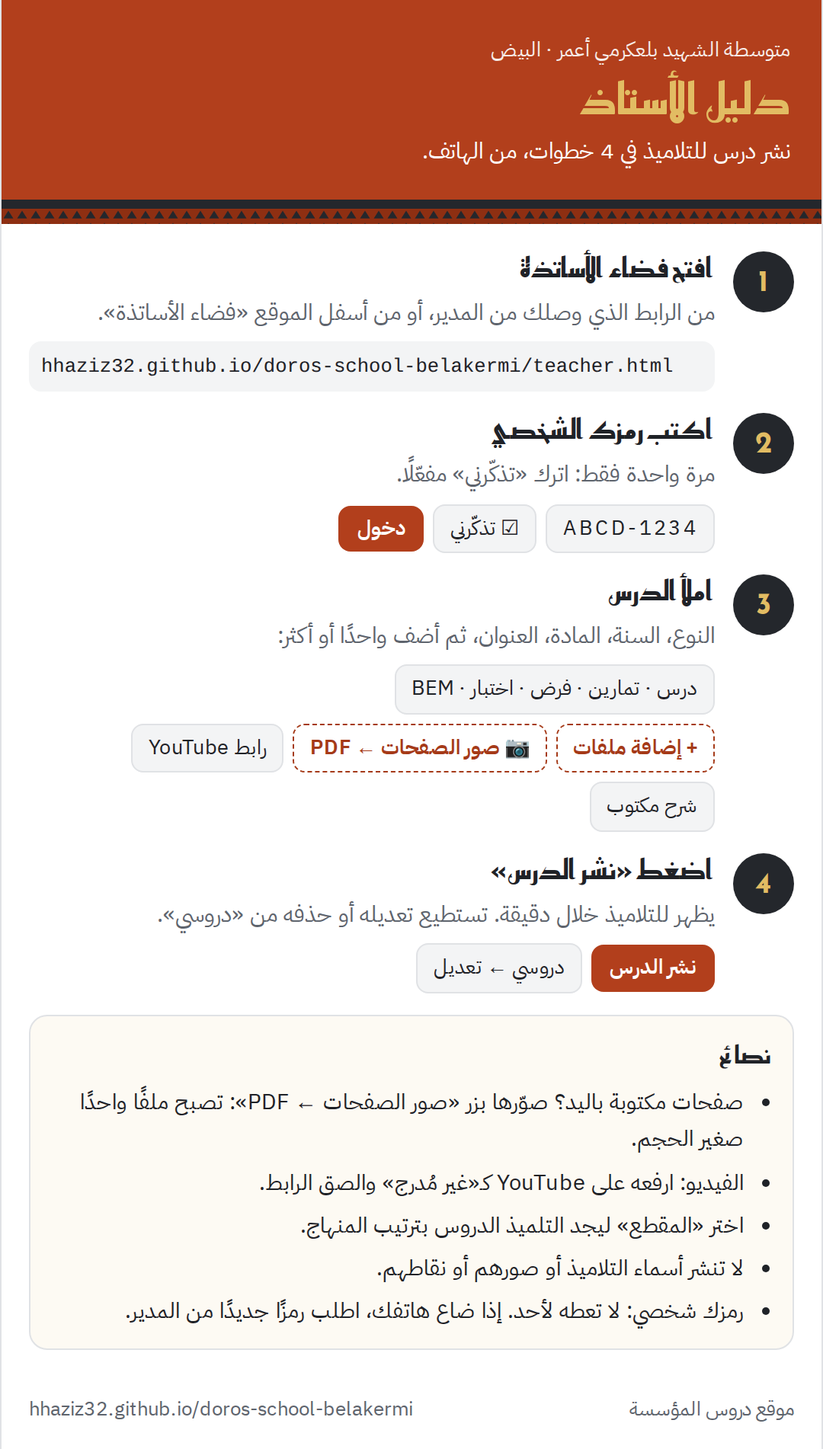
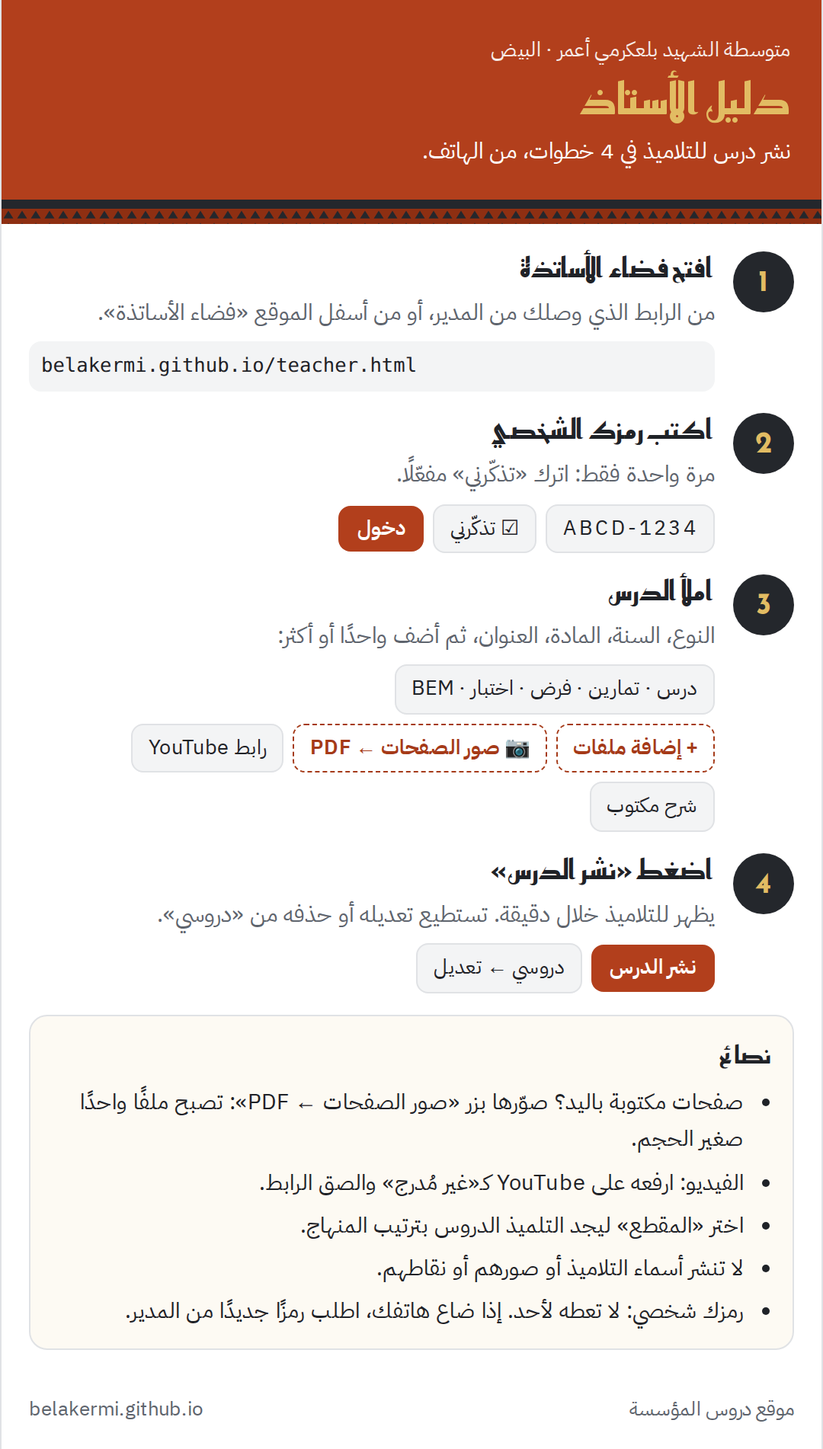
Lesson views for teachers, visitor counts for the admin (server v5); new address
- server v5: views and daily visits ride on normal reads (seen/visit/vn params),
  buffered in 20 cache shards, flushed at most every 10 min to a «views» column
  and a «visits» property; mine returns views, teachers returns visits
- phones queue views once per lesson per day; teachers' phones not counted;
  acknowledged only by a fresh server reply (nonce), so offline copies never drop them
- teacher «دروسي»: total, most viewed, per-lesson count, sort by views;
  admin: totals per teacher and visitors today / 7 / 30 days
- worker ignores counting params when matching saved replies
- links, share image and teacher guide image now use belakermi.github.io

Claude-Session: https://claude.ai/code/session_01DzrSKPb2SfvdNzBRMPXsky

Changed region(s): [[0.0611, 0.2482, 0.7333, 0.2792], [0.0306, 0.9616, 0.4889, 0.9926], [0.7639, 0.2482, 0.7944, 0.2792]]

diff --git a/teacher.html b/teacher.html
@@ -60,6 +60,20 @@
   .meter{height:8px;border-radius:99px;background:var(--line);overflow:hidden;margin-top:6px}
   .meter i{display:block;height:100%;border-radius:99px}
   .search input{padding-right:14px}
+  .vsum{display:flex;flex-direction:column;gap:8px}
+  .vbig{display:flex;align-items:baseline;gap:10px}
+  .vbig b{font-family:var(--display);font-size:2rem;color:var(--brick-ink);line-height:1}
+  .vtop{font-size:.92rem}
+  .vtop a{color:var(--brick-ink);unicode-bidi:plaintext}
+  .vby summary{cursor:pointer;font-size:.9rem;color:var(--muted)}
+  .vby table{width:100%;border-collapse:collapse;margin-top:6px;font-size:.88rem}
+  .vby td{padding:6px 4px;border-bottom:1px solid var(--line)}
+  .vby td:not(:first-child){white-space:nowrap;color:var(--muted);text-align:left}
+  .vstats{display:grid;grid-template-columns:repeat(3,minmax(0,1fr));gap:8px}
+  .vstats div{border:1px solid var(--line);border-radius:10px;padding:8px 6px;text-align:center;background:var(--ground)}
+  .vstats b{display:block;font-family:var(--display);font-size:1.5rem;line-height:1.2}
+  .vstats span{font-size:.8rem;color:var(--muted)}
+  .vw{white-space:nowrap}
 </style>
 </head>
 <body>
@@ -101,6 +115,7 @@ function blankForm(){var s=(S.me&&S.me.subjects||"").split(",")[0]||"",last=ls(l
  return f}
 function v3(){return S.me&&S.me.v>=3}
 function v4(){return S.me&&S.me.v>=4}
+var LATEST=5;
 function isBem(t){return t==="bem"||t==="bemc"}
 function msg(t,ok){S.msg={t:t,ok:!!ok}}
 var HEIC_TIP="صور HEIC (من بعض الهواتف) لا يقرؤها المتصفح: في إعدادات الكاميرا اختر «JPG» (في آيفون: «الأكثر توافقًا»)، أو التقط لقطة شاشة للصورة وأرسلها.";
@@ -126,7 +141,8 @@ function render(){
  if(!S.me){renderLogin();return}
  if(S.tab==="new"&&!S.done)ensureForm();
  var o='<div class="who"><div>مرحبًا، <b>'+esc(S.me.name)+'</b>'+(S.me.role==="admin"&&S.me.name.indexOf("مدير")<0?'<span class="role">المدير</span>':'')+'</div><button class="btn quiet sm" data-a="logout">خروج</button></div>';
- if(S.me.role==="admin"&&!v4())o+='<div class="upd">الخادم على الإصدار '+(S.me.v||1)+'. حدّث كود الخادم إلى <b>الإصدار 4</b> لتفعيل: '+(v3()?'':'نوع المحتوى، المقطع، مواضيع BEM، الإعلانات، ')+'منع تكرار النشر عند انقطاع الإنترنت، تحمّل الزحام، النسخة الاحتياطية، وزر «تحديث الموقع». <a href="setup.html">طريقة التحديث</a></div>';
+ var sv=S.me.v||1;
+ if(S.me.role==="admin"&&sv<LATEST)o+='<div class="upd">الخادم على الإصدار '+sv+'. حدّث كود الخادم إلى <b>الإصدار '+LATEST+'</b> لتفعيل: '+(sv<3?'نوع المحتوى، المقطع، مواضيع BEM، الإعلانات، ':'')+(sv<4?'منع تكرار النشر عند انقطاع الإنترنت، تحمّل الزحام، النسخة الاحتياطية، زر «تحديث الموقع»، ':'')+'عدد مشاهدات الدروس وعدد زوار الموقع. <a href="setup.html">طريقة التحديث</a></div>';
  o+='<nav class="tabs" role="tablist">'+tab("new",S.form&&S.form.id?"تعديل درس":"درس جديد")+tab("mine",S.me.role==="admin"?"كل الدروس":"دروسي")+(S.me.role==="admin"?tab("news","الإعلانات")+tab("team","الأساتذة"):"")+'</nav>';
  if(S.msg)o+='<div class="'+(S.msg.ok?"ok-msg":"msg")+'" role="status">'+esc(S.msg.t)+'</div>';
  o+='<section id="pane"></section>';
@@ -204,7 +220,7 @@ function loadMine(){if(S._loading)return;S._loading=true;S.mineErr=null;var g=G.
   function(e){if(g!==G.mine)return;S._loading=false;S.mineErr=D.errText(e);if(S.tab==="mine")renderMine()})}
 /* المدير: تحميل الأساتذة والإعلانات مسبقًا بعد الدخول، لتفتح التبويبات فورًا */
 function loadTeachers(){if(S._tload)return;S._tload=true;S.tErr=null;var g=G.team;
- D.call({action:"teachers",code:S.code}).then(function(j){if(g!==G.team)return;S._tload=false;S.teachers=j.teachers;S.storage=j.storage||null;if(S.tab==="team")renderTeam()},
+ D.call({action:"teachers",code:S.code}).then(function(j){if(g!==G.team)return;S._tload=false;S.teachers=j.teachers;S.storage=j.storage||null;S.visits=j.visits||null;if(S.tab==="team")renderTeam()},
   function(e){if(g!==G.team)return;S._tload=false;S.tErr=D.errText(e);if(S.tab==="team")renderTeam()})}
 function loadNews(){if(NW.loading||!v3())return;NW.loading=true;NW.err=null;var g=G.news;
  D.call({action:"news",code:S.code}).then(function(j){if(g!==G.news)return;NW.loading=false;NW.list=j.news;if(S.tab==="news")renderNewsAdmin()},
@@ -296,18 +312,32 @@ function publish(){if(S.busy)return;var f=readForm();
 function renderMine(){var el=$("pane");
  if(!S.mine){if(S.mineErr){el.innerHTML=failed(S.mineErr,"mineRetry");return}el.innerHTML=waiting("جاري تحميل الدروس…");loadMine();return}
  if(!S.mine.length){el.innerHTML='<div class="empty">لم تنشر أي درس بعد. ابدأ من «درس جديد».</div>';return}
- el.innerHTML=(S.mine.length>12?'<div class="search"><input id="mq" type="search" placeholder="ابحث في '+S.mine.length+' درسًا (العنوان، المقطع'+(S.me.role==="admin"?'، الأستاذ':'')+')…" aria-label="ابحث في الدروس" autocomplete="off" value="'+esc(S.mineQ)+'"></div>':'')+'<div id="mlist" style="display:flex;flex-direction:column;gap:12px"></div>';
+ var hasV=S.mine.some(function(l){return typeof l.views==="number"});
+ el.innerHTML=(hasV?viewSummary():'')+(S.mine.length>12?'<div class="search"><input id="mq" type="search" placeholder="ابحث في '+S.mine.length+' درسًا (العنوان، المقطع'+(S.me.role==="admin"?'، الأستاذ':'')+')…" aria-label="ابحث في الدروس" autocomplete="off" value="'+esc(S.mineQ)+'"></div>':'')+(hasV?'<div class="chips" role="group" aria-label="الترتيب"><button class="chip" data-a="msort" data-k="new" aria-pressed="'+(S.mineSort!=="views")+'">الأحدث</button><button class="chip" data-a="msort" data-k="views" aria-pressed="'+(S.mineSort==="views")+'">الأكثر مشاهدة</button></div>':'')+'<div id="mlist" style="display:flex;flex-direction:column;gap:12px"></div>';
  var q=$("mq");if(q)q.oninput=function(){S.mineQ=q.value;S.mineN=60;drawMine()};drawMine()}
 function drawMine(){var el=$("mlist");if(!el)return;var q=D.fold(S.mineQ).trim();
  var L=S.mine.filter(function(l){return!q||D.fold(l.title+" "+(l.unit||"")+" "+(l.teacher||"")).indexOf(q)>=0});
+ if(S.mineSort==="views")L=L.slice().sort(function(a,b){return(b.views||0)-(a.views||0)||b.ts-a.ts});
  if(!L.length){el.innerHTML='<div class="empty">لا توجد نتائج.</div>';return}
  el.innerHTML='<div class="card">'+L.slice(0,S.mineN).map(function(l){var s=D.subj(l.subject);
   var bits=[];if(l.files.length)bits.push(l.files.length===1?"ملف":l.files.length===2?"ملفان":l.files.length+" ملفات");if(l.videos.length)bits.push(l.videos.length===1?"فيديو":l.videos.length+" فيديو");if(l.text)bits.push("شرح");
   var tp=D.typeOf(l),yr=D.YEARS[l.year-1];
-  return'<div class="mrow"><h4 dir="auto">'+esc(l.title)+(tp!=="lesson"?' <span class="pill t-'+tp+'">'+esc(D.typeName(tp))+'</span>':'')+'</h4><div class="meta"><span>'+esc(yr?yr.name:"")+' · '+esc(s?s.n:"")+(l.unit?' · '+esc(l.unit):'')+'</span><span>·</span><span>'+D.fmt(l.date)+'</span>'+(S.me.role==="admin"?'<span>·</span><span>'+esc(l.teacher)+'</span>':'')+'<span>·</span><span>'+bits.join("، ")+'</span></div>'
+  return'<div class="mrow"><h4 dir="auto">'+esc(l.title)+(tp!=="lesson"?' <span class="pill t-'+tp+'">'+esc(D.typeName(tp))+'</span>':'')+'</h4><div class="meta"><span>'+esc(yr?yr.name:"")+' · '+esc(s?s.n:"")+(l.unit?' · '+esc(l.unit):'')+'</span><span>·</span><span>'+D.fmt(l.date)+'</span>'+(S.me.role==="admin"?'<span>·</span><span>'+esc(l.teacher)+'</span>':'')+'<span>·</span><span>'+bits.join("، ")+'</span>'+(typeof l.views==="number"?'<span>·</span><span class="vw">👁 '+l.views+' '+viewWord(l.views)+'</span>':'')+'</div>'
    +'<div style="display:flex;gap:8px;flex-wrap:wrap"><a class="btn ghost sm" href="lesson.html?id='+encodeURIComponent(l.id)+'">عرض</a><button class="btn quiet sm" data-a="edit" data-id="'+esc(l.id)+'">تعديل</button>'
    +(S.confirm===l.id?'<button class="btn danger sm" data-a="delYes" data-id="'+esc(l.id)+'">تأكيد الحذف</button><button class="btn quiet sm" data-a="delNo">إلغاء</button>':'<button class="btn quiet sm" data-a="del" data-id="'+esc(l.id)+'">حذف</button>')+'</div></div>'}).join("")+'</div>'
   +(L.length>S.mineN?'<button class="btn ghost" data-a="mineMore" style="align-self:center">عرض المزيد ('+(L.length-S.mineN)+')</button>':'')}
+
+/* ---- عدد المشاهدات (خادم الإصدار 5) ---- */
+function viewWord(n){return n===1?"مشاهدة":n===2?"مشاهدتان":n>=3&&n<=10?"مشاهدات":"مشاهدة"}
+function viewSummary(){var tot=0,top=null,by={};
+ S.mine.forEach(function(l){var n=l.views||0;tot+=n;if(n&&(!top||n>top.views))top=l;
+  if(S.me.role==="admin"){var k=l.teacher||"—";by[k]=by[k]||{n:0,c:0};by[k].n+=n;by[k].c++}});
+ var o='<div class="card vsum"><div class="vbig"><b>'+tot+'</b><span>'+(S.me.role==="admin"?'مشاهدة لكل دروس الموقع':'مشاهدة لدروسك')+'</span></div>';
+ if(top)o+='<div class="vtop">الأكثر مشاهدة: <a href="lesson.html?id='+encodeURIComponent(top.id)+'" dir="auto">'+esc(top.title)+'</a> · 👁 '+top.views+'</div>';
+ else o+='<div class="vtop">لا مشاهدات بعد. شارك رابط درسك مع تلاميذك من صفحة الدرس (زر واتساب).</div>';
+ if(S.me.role==="admin"){var rows=Object.keys(by).map(function(k){return{t:k,n:by[k].n,c:by[k].c}}).sort(function(a,b){return b.n-a.n||b.c-a.c});
+  if(rows.length>1)o+='<details class="vby"><summary>حسب الأستاذ ('+rows.length+')</summary><table>'+rows.map(function(r){return'<tr><td>'+esc(r.t)+'</td><td>'+r.c+' درس</td><td>👁 '+r.n+'</td></tr>'}).join("")+'</table></details>'}
+ return o+'<small class="hint" style="color:var(--muted);font-size:.8rem">تُحسب المشاهدة مرة واحدة لكل هاتف تلميذ في اليوم، ولا تُحسب هواتف الأساتذة. الأرقام تتحدث كل بضع دقائق.</small></div>'}
 
 /* ---- لوحة الإعلانات (المدير) ---- */
 var NW={list:null,edit:null,confirm:null,busy:false};
@@ -339,6 +369,8 @@ function tools(){
  if(st&&st.limit>0){var p=Math.min(100,Math.round(st.used/st.limit*100));
   o+='<div><div style="display:flex;justify-content:space-between;gap:8px;flex-wrap:wrap;font-size:.9rem"><span>مساحة Google Drive</span><span>'+D.size(st.used)+' من '+D.size(st.limit)+' · <bdi>'+p+'%</bdi></span></div><div class="meter"><i style="width:'+Math.max(p,2)+'%;background:'+(p>=90?"var(--danger)":p>=75?"var(--gold)":"var(--ok)")+'"></i></div>'
    +(p>=80?'<p class="hint" style="margin:6px 0 0;color:var(--danger);font-size:.85rem">المساحة تقترب من الامتلاء: شغّل الدالة cleanup من محرر الخادم، وأفرغ سلة Drive، واطلب من الأساتذة وضع الفيديوهات على YouTube.</p>':'')+'</div>'}
+ if(S.visits){var vz=S.visits;o+='<div><div style="font-size:.9rem;margin-bottom:6px">زوار الموقع</div><div class="vstats"><div><b>'+vz.today+'</b><span>اليوم</span></div><div><b>'+vz.d7+'</b><span>آخر 7 أيام</span></div><div><b>'+vz.d30+'</b><span>آخر 30 يومًا</span></div></div><p class="hint" style="margin:6px 0 0;color:var(--muted);font-size:.8rem">الزائر = هاتف تلميذ فتح الموقع، يُحسب مرة واحدة في اليوم. المجموع منذ البداية: '+vz.total+'.</p></div>'}
+ else if((S.me.v||1)<5)o+='<p class="hint" style="margin:0;color:var(--muted);font-size:.85rem">عدد زوار الموقع ومشاهدات الدروس يظهران بعد تحديث الخادم إلى الإصدار 5.</p>';
  o+='<div style="display:flex;gap:8px;flex-wrap:wrap"><button class="btn ghost sm" data-a="refresh"'+(TL.busy?" disabled":"")+'>🔄 تحديث الموقع الآن</button><button class="btn ghost sm" data-a="backup"'+(TL.busy?" disabled":"")+'>💾 نسخة احتياطية من الجدول</button></div>';
  if(TL.out)o+='<div class="ok-msg">'+TL.out+'</div>';
  o+='<p class="hint" style="margin:0;color:var(--muted);font-size:.82rem">«تحديث الموقع»: بعد تعديل جدول الدروس يدويًا (وإلا يظهر التعديل خلال 6 ساعات). «نسخة احتياطية»: نسخة من جدول الدروس والأساتذة والإعلانات في Drive الخاص بك؛ اصنع واحدة كل شهر.</p></div>';
@@ -375,7 +407,7 @@ function copyText(t,btn){var done=function(){var o=btn.textContent;btn.textConte
  if(navigator.clipboard)navigator.clipboard.writeText(t).then(done,function(){fallback()});else fallback();
  function fallback(){var a=document.createElement("textarea");a.value=t;document.body.appendChild(a);a.select();try{document.execCommand("copy");done()}catch(e){}document.body.removeChild(a)}}
 
-function logout(){saveDraft();fresh("mine");fresh("team");fresh("news");NW={list:null,edit:null,confirm:null,busy:false};TL={busy:false,out:""};S.mineErr=S.tErr=null;S._loading=S._tload=false;forget();S.tab="new";S.msg=null;S.confirm=null;S.me=null;S.code="";S.form=null;S.restored=false;S.mine=null;S.teachers=null;S.storage=null;S.newTeacher=null;S.done=null;S.mineQ="";S.mineN=60;render()}
+function logout(){saveDraft();fresh("mine");fresh("team");fresh("news");NW={list:null,edit:null,confirm:null,busy:false};TL={busy:false,out:""};S.mineErr=S.tErr=null;S._loading=S._tload=false;forget();S.tab="new";S.msg=null;S.confirm=null;S.me=null;S.code="";S.form=null;S.restored=false;S.mine=null;S.teachers=null;S.storage=null;S.visits=null;S.mineSort="new";S.newTeacher=null;S.done=null;S.mineQ="";S.mineN=60;render()}
 
 app.addEventListener("click",function(ev){var b=ev.target.closest("[data-a]");if(!b)return;var a=b.dataset.a;
  if(a==="tab"){if(S.tab==="new"&&$("lf"))saveDraft();S.tab=b.dataset.k;S.msg=null;S.confirm=null;if(S.tab==="news"){NW.edit=null;NW.confirm=null}render();
@@ -385,6 +417,7 @@ app.addEventListener("click",function(ev){var b=ev.target.closest("[data-a]");if
  else if(a==="teamRetry"){S.tErr=null;renderTeam()}
  else if(a==="newsRetry"){NW.err=null;renderNewsAdmin()}
  else if(a==="mineMore"){S.mineN+=60;drawMine()}
+ else if(a==="msort"){S.mineSort=b.dataset.k;S.mineN=60;Array.prototype.forEach.call(document.querySelectorAll('[data-a="msort"]'),function(c){c.setAttribute("aria-pressed",String(c.dataset.k===S.mineSort))});drawMine()}
  else if(a==="logout")logout();
  else if(a==="pick")$("picker").click();
  else if(a==="photos"){if(!window.IMGPDF)return;PH.open=true;drawPhotos();$("phPick").click()}

diff --git a/common.js b/common.js
@@ -106,11 +106,46 @@ var D = (function () {
   function news() { if (lastNews) return lastNews; var c = cached(); return c && Array.isArray(c.news) ? c.news : []; }
   function getUrl(q) { return SITE.apiUrl + (SITE.apiUrl.indexOf("?") >= 0 ? "&" : "?") + q + "&t=" + Date.now(); }
   function wait(ms) { return new Promise(function (ok) { setTimeout(ok, ms); }); }
+  /* ---- عدد المشاهدات والزيارات (خادم الإصدار 5) ----
+     الدرس الذي يفتحه التلميذ يُسجَّل في هاتفه (مرة واحدة في اليوم لكل درس)، ويُرسَل مع طلب القراءة التالي
+     بدون أي طلب إضافي للخادم. هواتف الأساتذة لا تُحسب. */
+  var VQ = "doros-views-v1", VS = "doros-seen-v1", VD = "doros-visit-v1";
+  function lsGet(k, d) { try { var v = JSON.parse(localStorage.getItem(k) || "null"); return v == null ? d : v; } catch (e) { return d; } }
+  function lsSet(k, v) { try { localStorage.setItem(k, JSON.stringify(v)); } catch (e) {} }
+  function teacherDevice() { try { return !!(localStorage.getItem("doros-code") || sessionStorage.getItem("doros-code")); } catch (e) { return false; } }
+  function markView(id) {
+    id = String(id || ""); if (!/^[a-z0-9]{6,30}$/.test(id) || teacherDevice()) return;
+    var t = today(), seen = lsGet(VS, {});
+    if (seen[id] === t) return;
+    for (var k in seen) if (seen[k] !== t) delete seen[k];
+    seen[id] = t; lsSet(VS, seen);
+    var q = lsGet(VQ, []); if (q.indexOf(id) < 0) q.push(id); lsSet(VQ, q.slice(-100));
+  }
+  function markVisit() {
+    if (teacherDevice()) return;
+    var v = lsGet(VD, {}); if (v.day === today()) return;
+    lsSet(VD, { day: today(), pending: true });
+  }
+  function viewParams() {
+    var q = lsGet(VQ, []).slice(0, 30), v = lsGet(VD, {}), o = { ids: q, visit: !!v.pending, s: "", n: "" };
+    if (q.length) o.s += "&seen=" + q.join(",");
+    if (o.visit) o.s += "&visit=1";
+    if (o.s) { o.n = Math.random().toString(36).slice(2, 10); o.s += "&vn=" + o.n; }
+    return o;
+  }
+  function viewAck(sent, j) {
+    /* خادم قديم، أو رد قديم محفوظ في الهاتف (بدون إنترنت): نحتفظ بها حتى يؤكد الخادم نفسه وصولها */
+    if (!j || !(j.v >= 5) || !sent.n || j.vn !== sent.n) return;
+    if (sent.ids.length && j.seen != null) lsSet(VQ, lsGet(VQ, []).filter(function (x) { return sent.ids.indexOf(x) < 0; }));
+    if (sent.visit && j.visit) { var v = lsGet(VD, {}); v.pending = false; lsSet(VD, v); }
+  }
+
   function getJson(q, tries) {
     var n = 0;
     function attempt() {
       n++;
-      return fetch(getUrl(q)).then(function (r) {
+      var sent = viewParams();
+      return fetch(getUrl(q + sent.s)).then(function (r) {
         return r.text().then(function (t) {
           var j; try { j = JSON.parse(t); } catch (e) { j = null; }
           if (!j) {
@@ -118,6 +153,7 @@ var D = (function () {
             var old = /خادم دروس/.test(t), e = new Error(old ? "UNSUPPORTED" : "BUSY"); e.code = e.message; throw e;
           }
           if (!j.ok && j.error === "SERVER") { var x = new Error("BUSY"); x.code = "BUSY"; throw x; }
+          viewAck(sent, j);
           return j;
         });
       }).catch(function (e) {
@@ -191,6 +227,6 @@ var D = (function () {
     typeName:typeName, typeOf:typeOf, unitKey:unitKey, digits:digits, fold:fold, today:today, activeNews:activeNews, waLink:waLink, share:share, siteUrl:siteUrl,
     ytId:ytId, driveId:driveId, filePreview:filePreview, fileDownload:fileDownload, fileImage:fileImage,
     apiOn:apiOn, call:call, upload:upload, mime:mime, lessons:lessons, lesson:lesson, cached:cached, news:news, invalidate:invalidate,
-    inApp:inApp, inAppNote:inAppNote, yearStart:yearStart,
+    inApp:inApp, inAppNote:inAppNote, yearStart:yearStart, markView:markView, markVisit:markVisit,
     canInstall:canInstall, onInstallable:onInstallable, install:install, standalone:standalone, isIOS:isIOS };
 })();

diff --git a/guide.html b/guide.html
@@ -50,7 +50,7 @@
   </header>
   <div class="strip6" aria-hidden="true"></div>
   <ol class="g">
-    <li><div class="gb"><h2>افتح فضاء الأساتذة</h2><p>من الرابط الذي وصلك من المدير، أو من أسفل الموقع «فضاء الأساتذة».</p><div class="url" id="url">hhaziz32.github.io/doros-school-belakermi/teacher.html</div></div></li>
+    <li><div class="gb"><h2>افتح فضاء الأساتذة</h2><p>من الرابط الذي وصلك من المدير، أو من أسفل الموقع «فضاء الأساتذة».</p><div class="url" id="url">belakermi.github.io/teacher.html</div></div></li>
     <li><div class="gb"><h2>اكتب رمزك الشخصي</h2><p>مرة واحدة فقط: اترك «تذكّرني» مفعّلًا.</p><div class="ui"><span class="k" style="direction:ltr;letter-spacing:.12em">ABCD-1234</span><span class="k">☑ تذكّرني</span><span class="b">دخول</span></div></div></li>
     <li><div class="gb"><h2>املأ الدرس</h2><p>النوع، السنة، المادة، العنوان، ثم أضف واحدًا أو أكثر:</p>
       <div class="ui"><span class="k">درس · تمارين · فرض · اختبار · BEM</span></div>
@@ -67,7 +67,7 @@
       <li>رمزك شخصي: لا تعطه لأحد. إذا ضاع هاتفك، اطلب رمزًا جديدًا من المدير.</li>
     </ul>
   </section>
-  <div class="gf"><span>موقع دروس المؤسسة</span><span id="site" style="direction:ltr;unicode-bidi:isolate">hhaziz32.github.io/doros-school-belakermi</span></div>
+  <div class="gf"><span>موقع دروس المؤسسة</span><span id="site" style="direction:ltr;unicode-bidi:isolate">belakermi.github.io</span></div>
 </div>
 <div class="actions-g">
   <a class="btn" href="teacher.html">افتح فضاء الأساتذة</a>

diff --git a/index.html b/index.html
@@ -7,7 +7,7 @@
 <meta name="description" content="دروس الأساتذة لتلاميذ متوسطة الشهيد بلعكرمي أعمر، البيض. من الأولى إلى الرابعة متوسط، ومواضيع شهادة التعليم المتوسط.">
 <meta property="og:title" content="دروس متوسطة الشهيد بلعكرمي أعمر">
 <meta property="og:description" content="كل دروس الأساتذة في مكان واحد، من الأولى إلى الرابعة متوسط.">
-<meta property="og:image" content="https://hhaziz32.github.io/doros-school-belakermi/img/og.jpg">
+<meta property="og:image" content="https://belakermi.github.io/img/og.jpg">
 <meta property="og:type" content="website">
 <meta name="theme-color" content="#B23F1C">
 <link rel="manifest" href="manifest.webmanifest">
@@ -252,7 +252,7 @@ function fetchApi(force){return D.lessons(force).then(function(L){apiL=mapApi(L)
 render();D.inAppNote(document.querySelector("main"));
 fetch("lessons.csv?t="+Date.now(),{cache:"no-store"}).then(function(r){if(!r.ok)throw 0;return r.text()}).then(function(t){return fromRows(parseCSV(t))},function(){return[]})
  .then(function(L){base=L;merge();loaded=true;render()});
-if(D.apiOn())fetchApi();
+if(D.apiOn()){D.markVisit();fetchApi()}
 
 /* ---- التثبيت كتطبيق ---- */
 if(!D.standalone()){

diff --git a/sw.js b/sw.js
@@ -23,7 +23,7 @@ self.addEventListener("activate", function (e) {
 });
 
 function pageKey(req) { var u = new URL(req.url); return u.origin + u.pathname; }
-function apiKey(url) { var u = new URL(url); u.searchParams.delete("t"); return "https://doros-api.local/?" + u.searchParams.toString(); }
+function apiKey(url) { var u = new URL(url); ["t", "seen", "visit", "vn"].forEach(function (k) { u.searchParams.delete(k); }); return "https://doros-api.local/?" + u.searchParams.toString(); }
 function timeout(ms) { return new Promise(function (ok) { setTimeout(function () { ok(null); }, ms); }); }
 
 /* صفحات وكود الموقع */

diff --git a/lesson.html b/lesson.html
@@ -56,6 +56,8 @@ function fail(t){app.innerHTML='<div class="empty">'+esc(t)+'<div style="margin-
 if(!id||!D.apiOn()){fail("هذا الدرس غير موجود.");return}
 
 var saved=D.cached(),hint=saved&&saved.lessons.filter(function(x){return x.id===id})[0];
+/* عدد المشاهدات: يُرسل مع هذا الطلب نفسه أو مع الطلب التالي */
+D.markVisit();D.markView(id);
 D.lesson(id).then(function(l){draw(l,false)},function(){
  if(hint)draw(hint,true);else fail("الخادم مشغول أو الاتصال ضعيف. أعد فتح الدرس بعد قليل.")});
 function draw(l,stale){

diff --git a/bem.html b/bem.html
@@ -76,6 +76,7 @@ $("view").addEventListener("click",function(e){var b=e.target.closest("[data-s]"
 D.inAppNote(document.querySelector("main"));
 var saved=D.cached();if(saved)take(saved.lessons);
 if(!D.apiOn()){take([]);return}
+D.markVisit();
 D.lessons().then(take,function(){if(!saved){take([])}
  $("error").innerHTML='<div class="msg" role="status">'+(navigator.onLine?"الخادم مشغول الآن.":"أنت بدون إنترنت.")+(saved?" المعروض آخر نسخة محفوظة في هاتفك.":" أعد فتح الصفحة بعد قليل.")+'</div>'});
 })();

diff --git a/README.md b/README.md
@@ -2,11 +2,11 @@
 
 موقع مجاني يجمع دروس الأساتذة لتلاميذ المتوسط، من الأولى إلى الرابعة، ومواضيع شهادة التعليم المتوسط.
 
-- **الموقع:** https://hhaziz32.github.io/doros-school-belakermi/
-- **فضاء الأساتذة:** https://hhaziz32.github.io/doros-school-belakermi/teacher.html
-- **دليل الأستاذ:** https://hhaziz32.github.io/doros-school-belakermi/guide.html (وصورة للإرسال: `img/guide-teachers.png`)
-- **مواضيع BEM:** https://hhaziz32.github.io/doros-school-belakermi/bem.html
-- **ملصق QR للأقسام:** https://hhaziz32.github.io/doros-school-belakermi/poster.html
+- **الموقع:** https://belakermi.github.io/
+- **فضاء الأساتذة:** https://belakermi.github.io/teacher.html
+- **دليل الأستاذ:** https://belakermi.github.io/guide.html (وصورة للإرسال: `img/guide-teachers.png`)
+- **مواضيع BEM:** https://belakermi.github.io/bem.html
+- **ملصق QR للأقسام:** https://belakermi.github.io/poster.html
 
 ## كيف يعمل
 
@@ -14,10 +14,11 @@
 - **الأساتذة** يدخلون برمز شخصي من `teacher.html` وينشرون: ملفات، صور صفحات تتحول إلى PDF مضغوط، روابط YouTube، وشرحًا مكتوبًا. كل أستاذ يعدّل ويحذف دروسه فقط. ما يكتبه الأستاذ يُحفظ في هاتفه كمسودة أثناء الكتابة، والنشر يعيد المحاولة تلقائيًا عند الزحام أو انقطاع الإنترنت دون أن يتكرر الدرس.
 - **المدير** يضيف الأساتذة، يعطي «رمزًا جديدًا» أو يوقف أستاذًا، وينشر **الإعلانات** التي تظهر أعلى الصفحة الرئيسية. في تبويب «الأساتذة»: مؤشر مساحة Drive، زر **«تحديث الموقع الآن»**، وزر **«نسخة احتياطية من الجدول»**.
 - دروس السنوات الدراسية الماضية (قبل 1 أوت) تنتقل تلقائيًا إلى «أرشيف» مطويّ في صفحة المادة.
+- **عدد المشاهدات والزيارات (الإصدار 5):** كل أستاذ يرى في «دروسي» عدد مشاهدات كل درس ومجموعها والأكثر مشاهدة، والمدير يرى المجموع حسب الأستاذ وعدد زوار الموقع (اليوم، 7 أيام، 30 يومًا). المشاهدة تُحسب مرة واحدة لكل هاتف تلميذ في اليوم، وهواتف الأساتذة لا تُحسب. العدد يُرسل مع طلبات القراءة العادية (بدون أي طلب إضافي للخادم)، ويُحفظ في عمود `views` في الجدول وفي خاصية `visits`، كل 10 دقائق على الأكثر. الأرقام تقريبية.
 
 ## الخادم (Google Apps Script)
 
-- الكود: `google/Code.gs` — **الإصدار 4**. البيانات في جدول Google «دروس الموقع» والملفات في مجلد Drive، في حساب المؤسسة.
+- الكود: `google/Code.gs` — **الإصدار 5**. البيانات في جدول Google «دروس الموقع» والملفات في مجلد Drive، في حساب المؤسسة.
 - الخادم يقرأ أعمدة الجدول **بأسمائها**: يمكن ترتيب الصفوف أو إضافة أعمدة خاصة بالمدير، لكن لا تُغيَّر أسماء العناوين في الصف الأول (الصف مجمّد ومحمي بتحذير). بعد أي تعديل يدوي: زر «تحديث الموقع الآن».
 - نسخة سريعة من القائمة العامة تُحفظ في ملف `_site-snapshot.json` في مجلد الملفات: إذا فرغت ذاكرة Google المؤقتة وقت الزحام، زائر واحد فقط يعيد البناء والباقون يقرؤون هذه النسخة. لا تحذفه (إن حُذف يُنشأ من جديد).
 - التركيب أو التحديث: صفحة `setup.html` (زر لنسخ الكود والخطوات).
